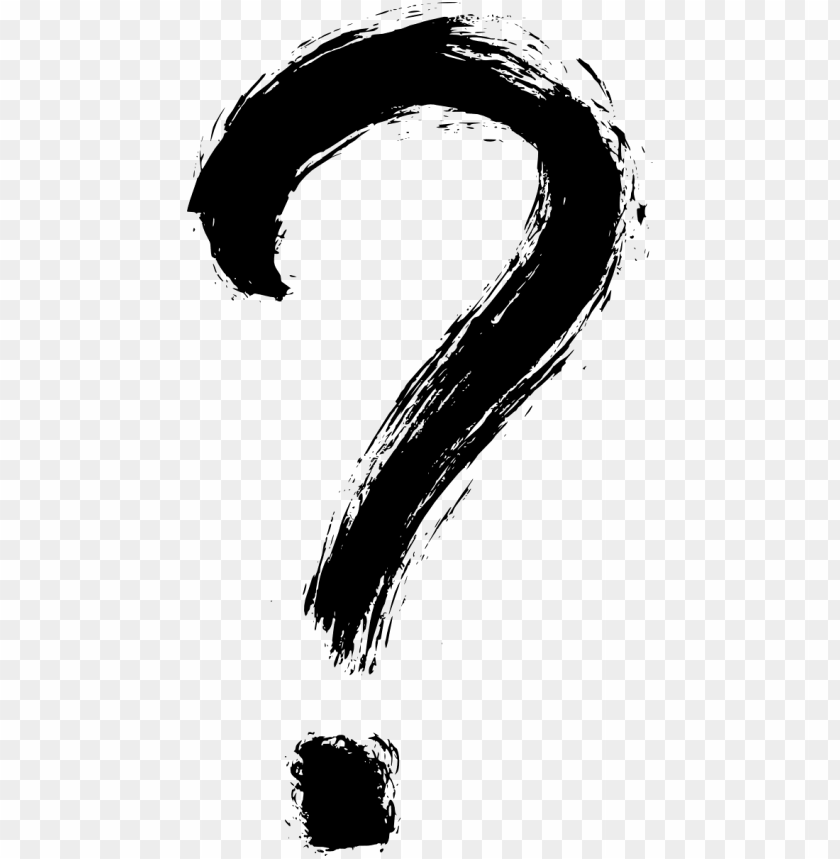
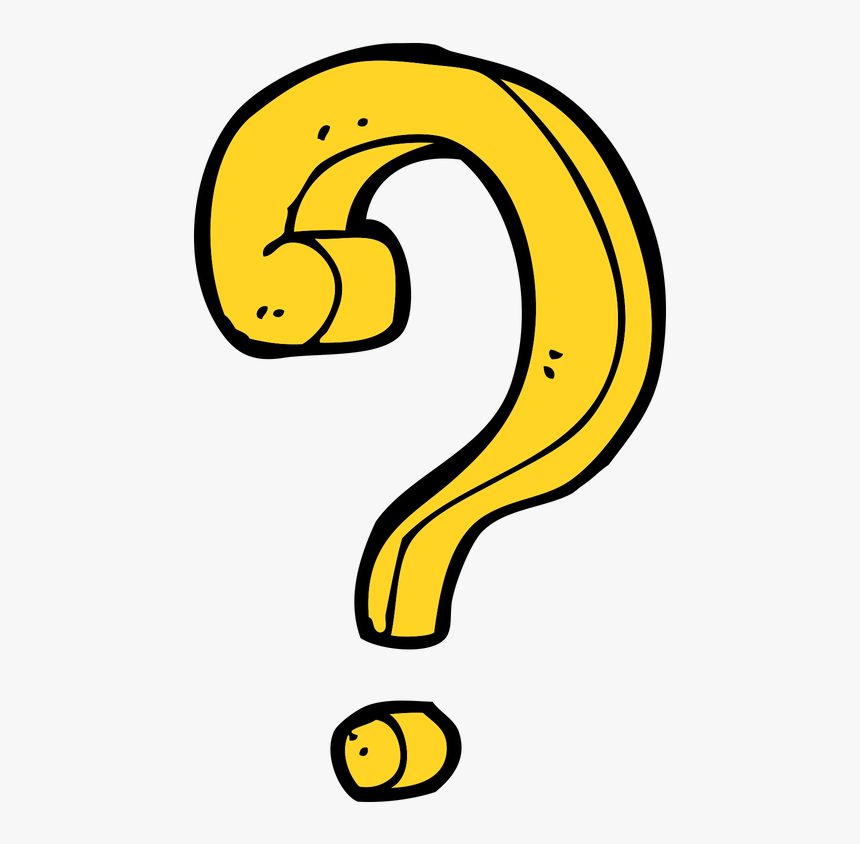
1

Changed region(s): [[0.2167, 0.0, 0.7738, 0.8009], [0.3405, 0.8318, 0.5571, 1.0]]

diff --git a/src/round2.html b/src/round2.html
@@ -37,21 +37,24 @@
       <div class="row">
         <div class="col-12 align-items-start">
           <div class="card frist-card player-1">
+            <button class="btn" onclick="display(1)">
               <img
-                src="./assets/img/questionMark2.png"
+                src="./assets/img/questionMark.png"
                 class="card-img-top profile-img d-flex"
                 alt="..."
-              />              
+              />               
+            </button>
+
             <div class="card-body d-flex justify-content-between">
-              <div class="d-inline-flex">
-                <h2 class="d-flex student_name" style="font-size: 2rem">??? ???</h2>
+              <div class="d-inline-flex name-card">
+                <h2 class="d-flex student_name" style="font-size: 45px">??? ???</h2>
               </div>
-              <div class="song-card d-inline-flex">
+              <div class="song-card d-inline-flex" style="font-size: 40px">
                 <h7 class="d-inline-flex">歌曲名称: 《</h7>
                 <h7 class="d-inline-flex song-name">????</h7>
                 <h7 class="d-inline-flex">》</h7>
               </div>
-              <div class="d-inline-flex">
+              <div class="d-inline-flex" style="font-size: 40px">
                 <h7 class="d-flex">得分: </h7>
                 <h7 class="score">???</h7>
               </div>
@@ -61,21 +64,24 @@
 
         <div class="col-12 align-items-start">
           <div class="card frist-card player-2">
+            <button class="btn" onclick="display(2)">
               <img
-                src="./assets/img/image1.jpg"
+                src="./assets/img/questionMark.png"
                 class="card-img-top profile-img d-flex"
                 alt="..."
-              />              
+              />               
+            </button>
+                      
             <div class="card-body d-flex justify-content-between">
-              <div class="d-inline-flex">
-                <h2 class="d-flex student_name" style="font-size: 2rem">??? ???</h2>
+              <div class="d-inline-flex name-card">
+                <h2 class="d-flex student_name" style="font-size: 40px">??? ???</h2>
               </div>
-              <div class="song-card d-inline-flex">
+              <div class="d-inline-flex song-card" style="font-size: 30px">
                 <h7 class="d-inline-flex">歌曲名称: 《</h7>
                 <h7 class="d-inline-flex song-name">????</h7>
                 <h7 class="d-inline-flex">》</h7>
               </div>
-              <div class="d-inline-flex">
+              <div class="d-inline-flex score-card" style="font-size: 30px">
                 <h7 class="d-flex">得分: </h7>
                 <h7 class="score">???</h7>
               </div>
@@ -85,21 +91,24 @@
 
         <div class="col-12 align-items-start">
           <div class="card frist-card player-3">
+            <button class="btn" onclick="display(3)">
               <img
-                src="./assets/img/image1.jpg"
+                src="./assets/img/questionMark.png"
                 class="card-img-top profile-img d-flex"
                 alt="..."
-              />              
+              />               
+            </button>
+
             <div class="card-body d-flex justify-content-between">
-              <div class="d-inline-flex">
-                <h2 class="d-flex student_name" style="font-size: 2rem">??? ???</h2>
+              <div class="d-inline-flex name-card">
+                <h2 class="d-flex student_name" style="font-size: 35px">??? ???</h2>
               </div>
-              <div class="song-card d-inline-flex">
+              <div class="song-card d-inline-flex" style="font-size: 27px">
                 <h7 class="d-inline-flex">歌曲名称: 《</h7>
                 <h7 class="d-inline-flex song-name">????</h7>
                 <h7 class="d-inline-flex">》</h7>
               </div>
-              <div class="d-inline-flex">
+              <div class="d-inline-flex score-card" style="font-size: 27px">
                 <h7 class="d-flex">得分: </h7>
                 <h7 class="score">???</h7>
               </div>
@@ -108,22 +117,25 @@
         </div>
 
         <div class="col-12 align-items-start">
-          <div class="card frist-card player-4">
+          <div class="card player-4">
+            <button class="btn" onclick="display(4)">
               <img
-                src="./assets/img/image1.jpg"
+                src="./assets/img/questionMark.png"
                 class="card-img-top profile-img d-flex"
                 alt="..."
-              />              
+              />               
+            </button>
+
             <div class="card-body d-flex justify-content-between">
-              <div class="d-inline-flex">
-                <h2 class="d-flex student_name" style="font-size: 2rem">??? ???</h2>
+              <div class="d-inline-flex name-card">
+                <h2 class="d-flex student_name">??? ???</h2>
               </div>
-              <div class="song-card d-inline-flex">
+              <div class="d-inline-flex song-card">
                 <h7 class="d-inline-flex">歌曲名称: 《</h7>
                 <h7 class="d-inline-flex song-name">????</h7>
                 <h7 class="d-inline-flex">》</h7>
               </div>
-              <div class="d-inline-flex">
+              <div class="d-inline-flex score-card">
                 <h7 class="d-flex">得分: </h7>
                 <h7 class="score">???</h7>
               </div>
@@ -133,21 +145,24 @@
 
         <div class="col-12 align-items-start">
           <div class="card frist-card player-5">
+            <button class="btn" onclick="display(5)">
               <img
-                src="./assets/img/image1.jpg"
+                src="./assets/img/questionMark.png"
                 class="card-img-top profile-img d-flex"
                 alt="..."
-              />              
+              />               
+            </button>   
+
             <div class="card-body d-flex justify-content-between">
-              <div class="d-inline-flex">
-                <h2 class="d-flex student_name" style="font-size: 2rem">??? ???</h2>
+              <div class="d-inline-flex name-card">
+                <h2 class="d-flex student_name">??? ???</h2>
               </div>
               <div class="song-card d-inline-flex">
                 <h7 class="d-inline-flex">歌曲名称: 《</h7>
                 <h7 class="d-inline-flex song-name">????</h7>
                 <h7 class="d-inline-flex">》</h7>
               </div>
-              <div class="d-inline-flex">
+              <div class="d-inline-flex score-card">
                 <h7 class="d-flex">得分: </h7>
                 <h7 class="score">???</h7>
               </div>
@@ -157,21 +172,24 @@
 
         <div class="col-12 align-items-start">
           <div class="card frist-card player-6">
+            <button class="btn" onclick="display(6)">
               <img
-                src="./assets/img/image1.jpg"
+                src="./assets/img/questionMark.png"
                 class="card-img-top profile-img d-flex"
                 alt="..."
-              />              
+              />               
+            </button>
+             
             <div class="card-body d-flex justify-content-between">
-              <div class="d-inline-flex">
-                <h2 class="d-flex student_name" style="font-size: 2rem">??? ???</h2>
+              <div class="d-inline-flex name-card">
+                <h2 class="d-flex student_name">??? ???</h2>
               </div>
               <div class="song-card d-inline-flex">
                 <h7 class="d-inline-flex">歌曲名称: 《</h7>
                 <h7 class="d-inline-flex song-name">????</h7>
                 <h7 class="d-inline-flex">》</h7>
               </div>
-              <div class="d-inline-flex">
+              <div class="d-inline-flex score-card">
                 <h7 class="d-flex">得分: </h7>
                 <h7 class="score">???</h7>
               </div>

diff --git a/src/assets/css/round2.css b/src/assets/css/round2.css
@@ -4,7 +4,10 @@
   }
   
   .background-color {
-    background-image: linear-gradient(to bottom, #6dd5ed, #2193b0);
+    background-image: url("/src/assets/img/background.jpg");
+    background-position: center; /* Center the image */
+    background-repeat: no-repeat; /* Do not repeat the image */
+    background-size: cover; /* Resize the background image to cover the entire container */
   }
   
   /* title */
@@ -54,7 +57,7 @@
     font-family: 'ZCOOL XiaoWei', sans-serif;
     font-size: 1rem;
     border-radius: 2rem;
-    height: 5rem;
+    height: 90px;
     margin: auto;
   }
   
@@ -70,41 +73,43 @@
   
   .col-12{
     position: relative;
-    margin-bottom: 0.5rem;
+    margin-bottom: 25px;
   }
-  
-  
   
   .card-body{
     margin: auto;
   }
   
-  .score-card {
-    display: inline-flex;
-  }
-  
-  /* first place card */
-  .first-card{
-    background-color: white;
-  }
-  .first-card{
-    background-color: yellow;
-  }
-  
-  
-  /* second place card */
-  .second-card {
-    font-size: 1.5rem;
-  }
-  
-  a{
-    text-decoration: none;
-    color: white;
-  }
-  a:hover{
-    text-decoration: none;
-    color: white;
-  }
+.player-1{
+  height: 140px;
+}
+.player-2{
+  height: 120px;
+}
+.player-3{
+  height: 100px;
+}
+
+.name-card{
+  font-size: 27px;
+}
+
+.song-card{
+  font-size: 27px;
+}
+
+.score-card{
+  font-size: 27px;
+}
+
+a{
+  text-decoration: none;
+  color: white;
+}
+a:hover{
+  text-decoration: none;
+  color: white;
+}
   
   
   

diff --git a/src/assets/css/round1.css b/src/assets/css/round1.css
@@ -1,7 +1,10 @@
 @import url(https://fonts.googleapis.com/css?family=Akronim);
 
 .background-color {
-  background-image: linear-gradient(to bottom, #6dd5ed, #2193b0);
+  background-image: url("/src/assets/img/background.jpg");
+  background-position: center; /* Center the image */
+  background-repeat: no-repeat; /* Do not repeat the image */
+  background-size: cover; /* Resize the background image to cover the entire container */
 }
 
 .container1{

diff --git a/src/assets/js/round2.js b/src/assets/js/round2.js
@@ -23,3 +23,7 @@ function load_data(){
     localStorage.setItem("displayData", student_data);
 
 }
+
+function display(ranking){
+    console.log(ranking)
+}
